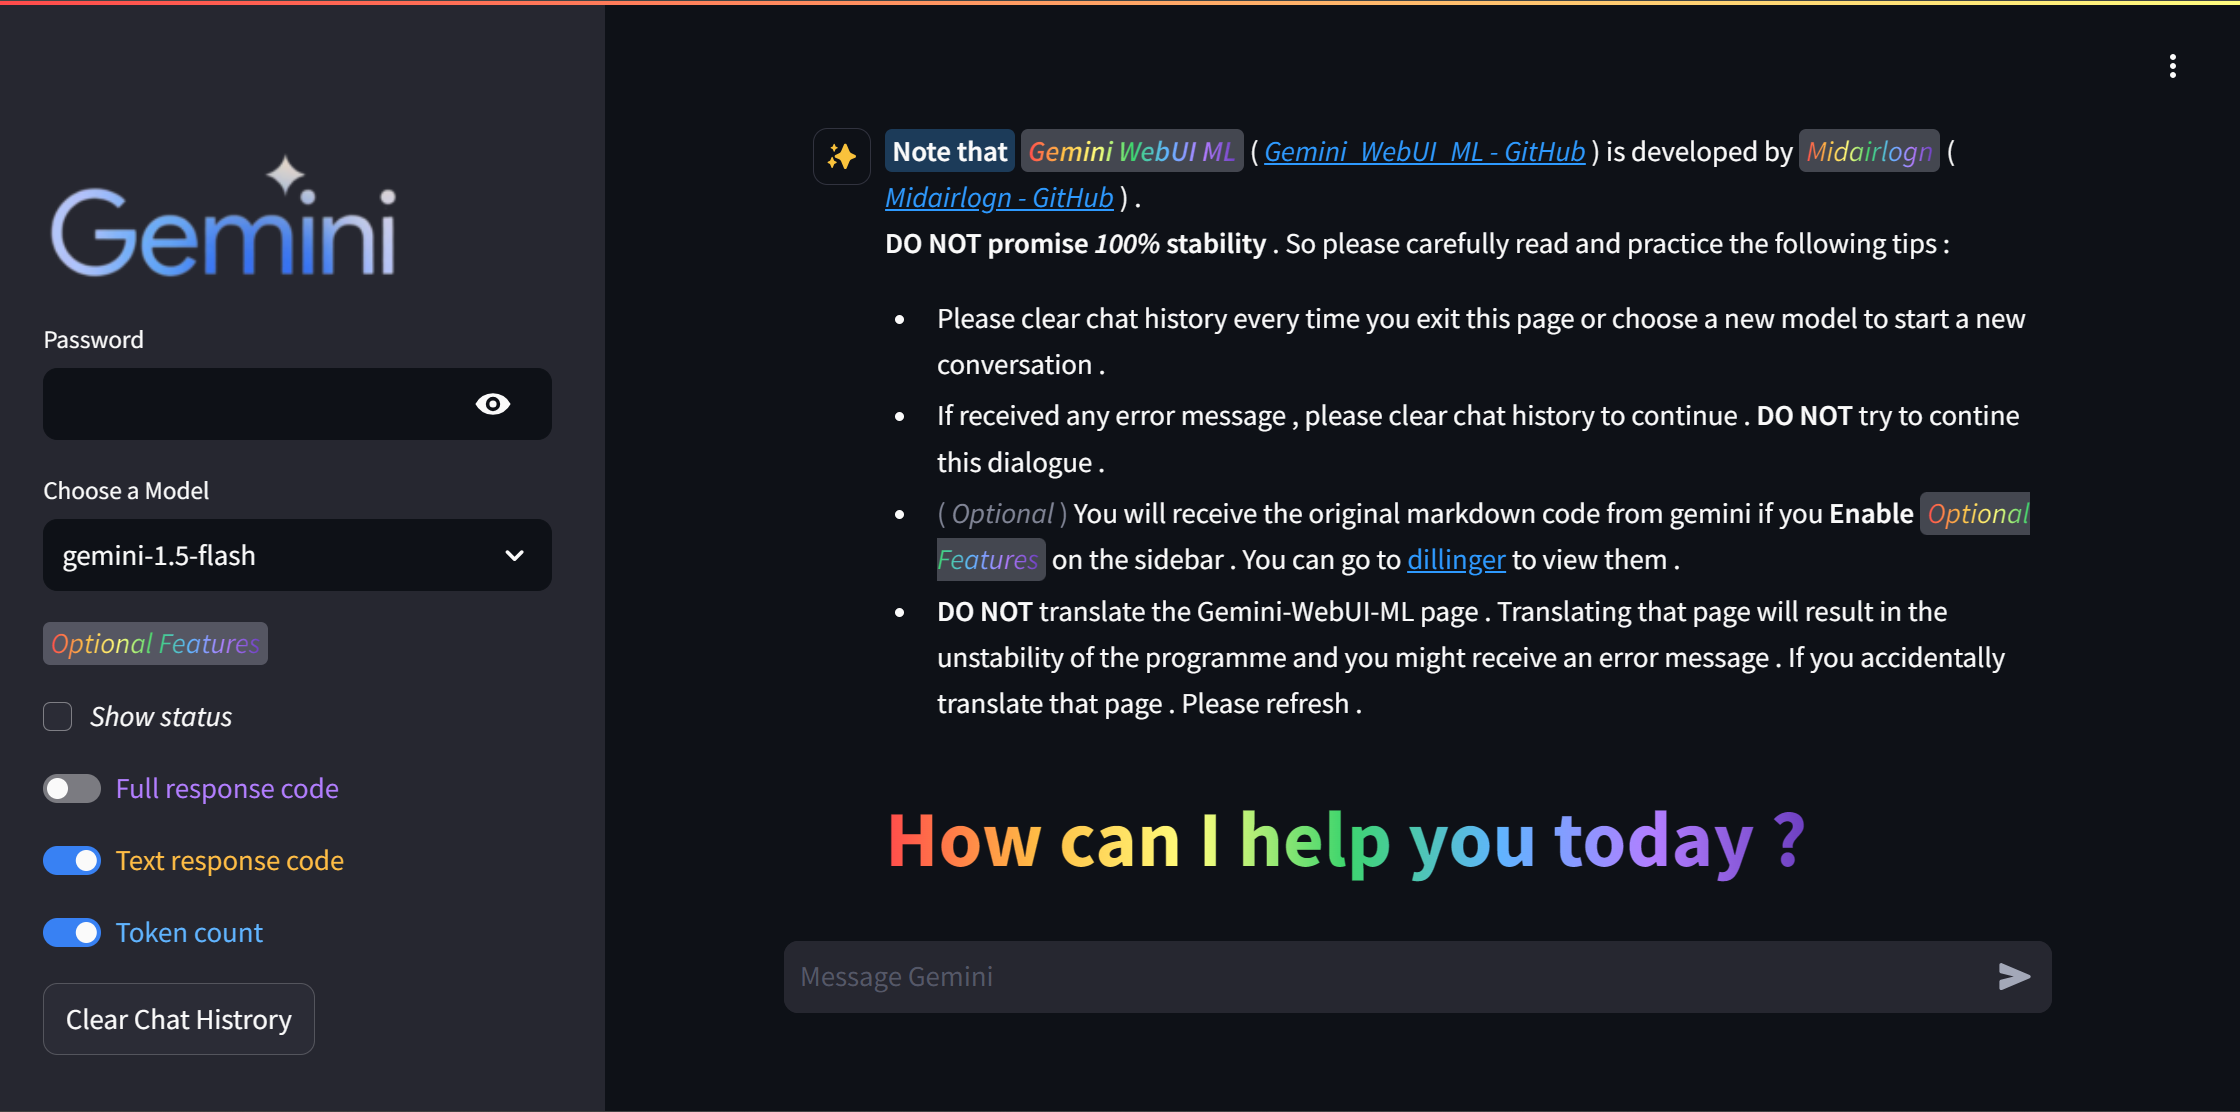
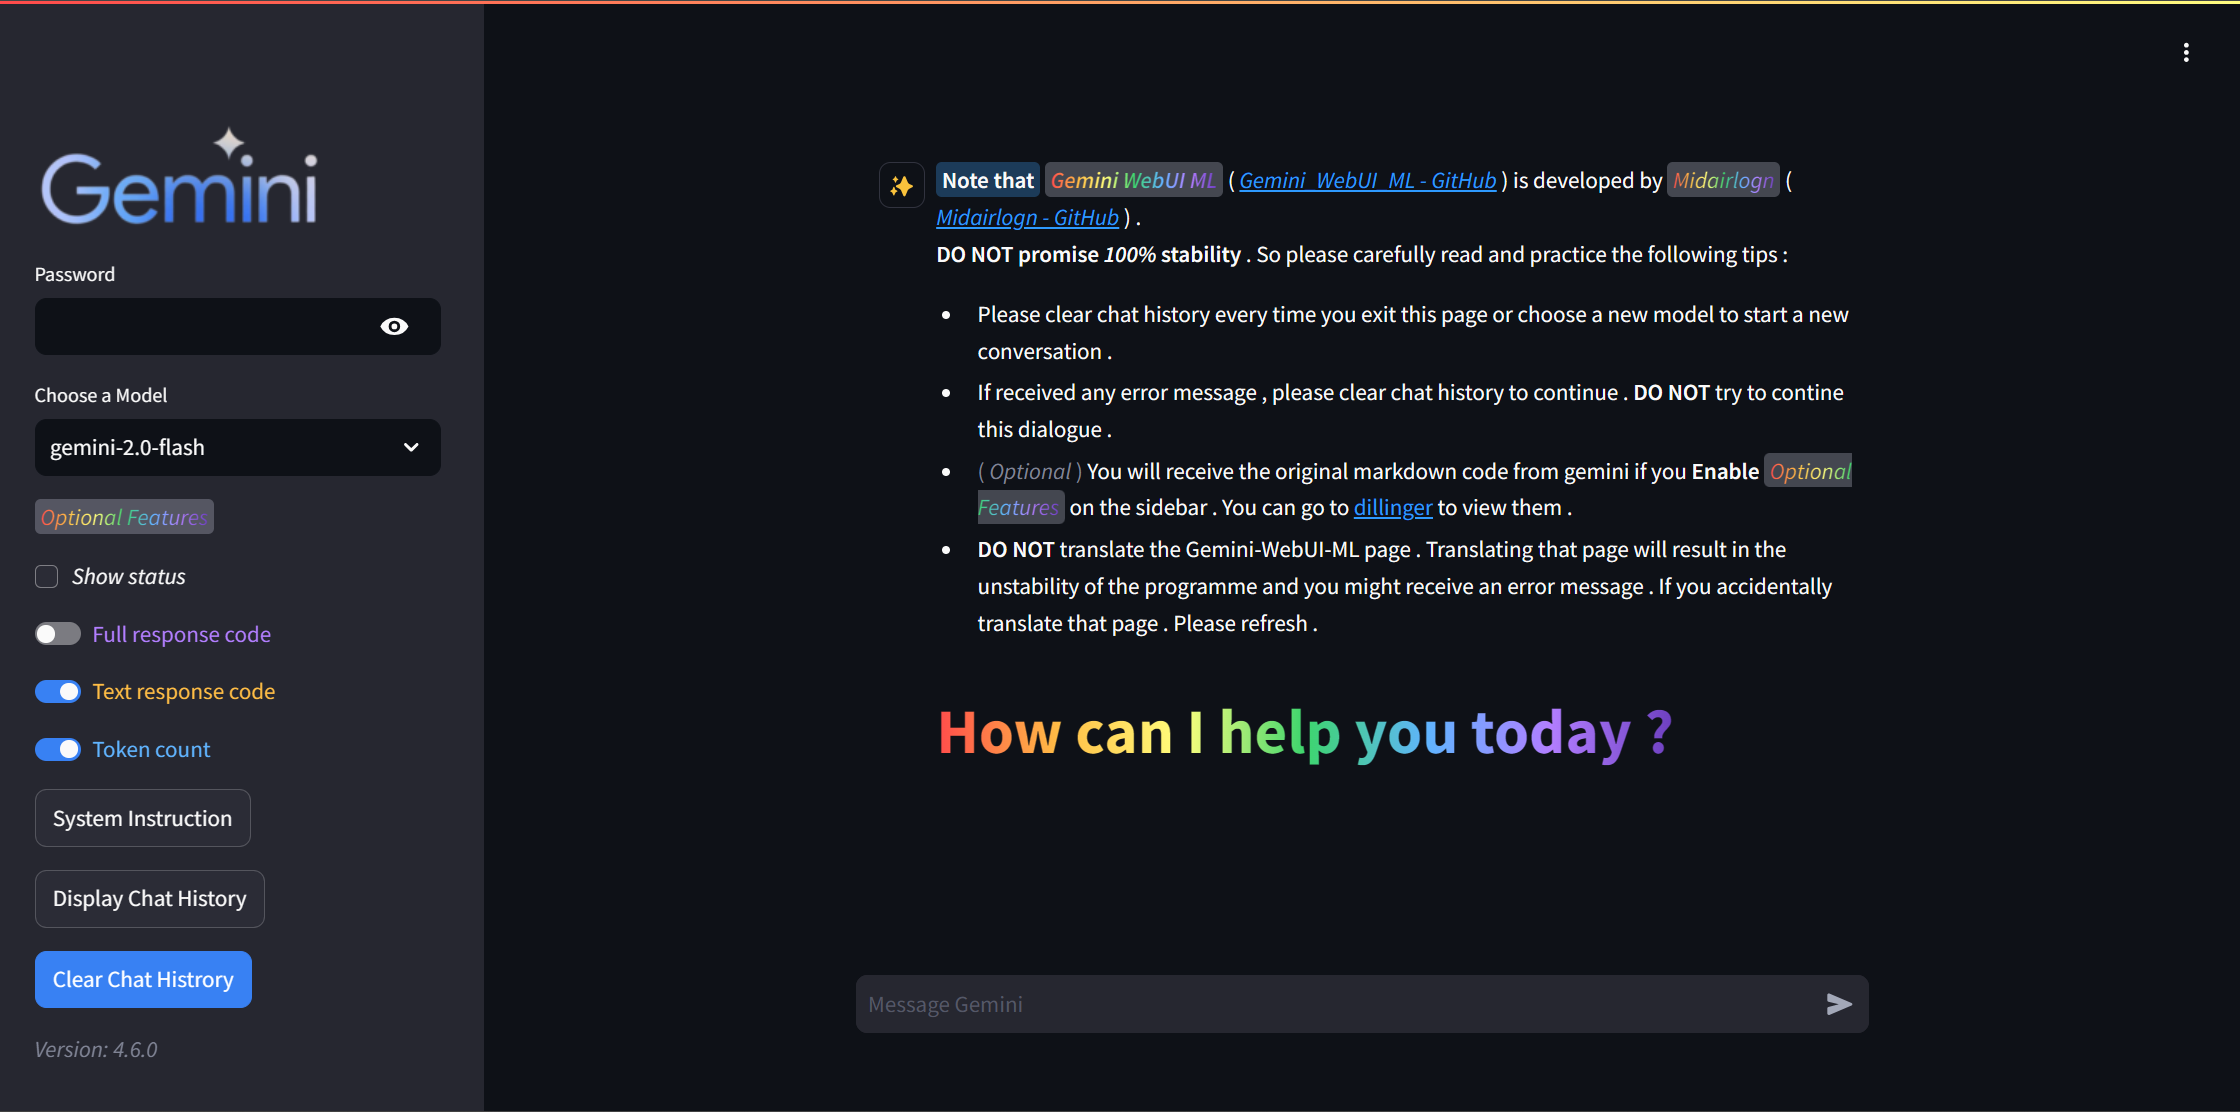
update to v 4.7.0
update to v 4.7.0
support New API

diff --git a/README.md b/README.md
@@ -78,8 +78,10 @@ Replace `6951` with any port you want this programme to run on .
 - [x] gemini-1.5-pro ( *recommended* )
 - [x] gemini-1.5-flash-8b
 - [x] gemini-1.0-pro
+- [x] Support [*New API*](https://github.com/Calcium-Ion/new-api)    
 - [x] And many more ( explore for yourself )
-> *Note that:*  You can add other models by editing `mlconfig.json`: `"application_data"`: `"ml_gemini_models"`    
+> *Note that:*  You can add other models by editing `private-config-ml.json.json`: `"private_models"`. Also, you can add other models by editing `mlconfig.json`: `"application_data"`: `"ml_gemini_models"`    
+**Priority:** `private-config-ml.json.json`: `"private_models"` > `mlconfig.json`: `"application_data"`: `"ml_gemini_models"`    
 
 ## Supported input
 - [x] text ( including *System Instructions* )
